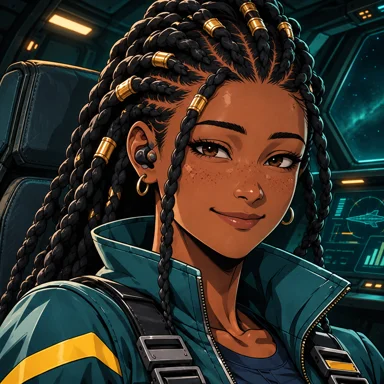
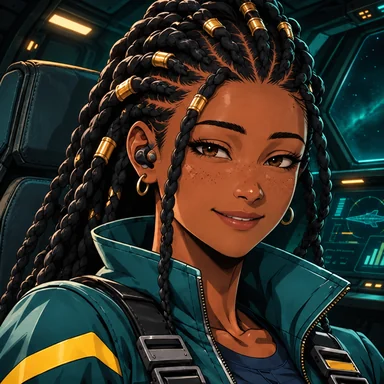
Add upright Orison gear, patrol every deck, and refine the rescue cast art

diff --git a/game.js b/game.js
@@ -855,7 +855,7 @@ function reservoir(ctx,w,h) {
     ctx.fillRect(x,h*.47+4,2,16);
   }
 }
-const shipFallback = {deckCargo:'cargo',anchorWinch:'lift',shipVent:'conveyor',lifeboat:'jack',shipCrane:'lift',ballastPump:'server',deckGantry:'lift',cargoLift:'lift',davitRail:'conveyor',deckReels:'cargo',deckGenerator:'server',sensorPod:'cargo'};
+const shipFallback = {deckCargo:'cargo',anchorWinch:'lift',shipVent:'conveyor',lifeboat:'jack',shipCrane:'lift',ballastPump:'server',deckGantry:'lift',cargoLift:'lift',davitRail:'conveyor',deckReels:'cargo',deckGenerator:'server',sensorPod:'cargo',shipExhaust:'conveyor',gangway:'lift',steelHatches:'cargo',bollardBank:'server',fireMain:'conveyor',radarMast:'server'};
 const equipmentArt = {
   cargo: ['cargo', 'pallet', 'jack'],
   hangar: ['conveyor', 'lift'],
@@ -904,13 +904,16 @@ const shipSprites = {"deckCargo":[5,23,210,103],"anchorWinch":[225,28,210,94],"s
 const shipMachineryAtlas = new Image();
 shipMachineryAtlas.src = 'assets/orison-machinery.webp';
 const shipMachinerySprites = {"deckGantry":[5,32,210,85],"cargoLift":[242,4,176,141],"davitRail":[445,44,210,62],"deckReels":[5,168,210,113],"deckGenerator":[230,154,200,141],"sensorPod":[445,154,209,141]};
+const verticalShipAtlas = new Image();
+verticalShipAtlas.src = 'assets/orison-vertical.webp';
+const verticalShipSprites = {"shipExhaust":[33,4,73,202],"gangway":[169,4,81,202],"steelHatches":[319,4,61,202],"bollardBank":[41,214,58,202],"fireMain":[167,214,85,202],"radarMast":[297,214,106,202]};
 const horizontalHandling = type => type === 'forklift' || type === 'jack';
 function drawEquipmentSprite(ctx,w,h,type) {
-  const rect = shipMachinerySprites[type] || shipSprites[type] || workcellSprites[type] || factorySprites[type] || equipmentSprites[type];
-  const image = shipMachinerySprites[type] ? shipMachineryAtlas : shipSprites[type] ? shipAtlas : workcellSprites[type] ? workcellAtlas : factorySprites[type] ? factoryAtlas : equipmentAtlas;
+  const rect = verticalShipSprites[type] || shipMachinerySprites[type] || shipSprites[type] || workcellSprites[type] || factorySprites[type] || equipmentSprites[type];
+  const image = verticalShipSprites[type] ? verticalShipAtlas : shipMachinerySprites[type] ? shipMachineryAtlas : shipSprites[type] ? shipAtlas : workcellSprites[type] ? workcellAtlas : factorySprites[type] ? factoryAtlas : equipmentAtlas;
   if (!rect || !image.complete || !image.naturalWidth) return false;
   ctx.save();
-  const rotate = !horizontalHandling(type) && !['press','switchgear','turntable','shipCrane','deckGantry','cargoLift','davitRail'].includes(type) && h > w*1.25 && rect[2] > rect[3]*1.48;
+  const rotate = !verticalShipSprites[type] && !horizontalHandling(type) && !['press','switchgear','turntable','shipCrane','deckGantry','cargoLift','davitRail'].includes(type) && h > w*1.25 && rect[2] > rect[3]*1.48;
   if (rotate) {
     ctx.translate(w,0);
     ctx.rotate(Math.PI/2);
@@ -918,7 +921,7 @@ function drawEquipmentSprite(ctx,w,h,type) {
   }
   const aspect = rect[2]/rect[3];
   const columns = Math.max(1,Math.round(w/(h*aspect)));
-  const rows = horizontalHandling(type) ? 1 : Math.max(1,Math.round(h/(w/aspect)));
+  const rows = horizontalHandling(type) || orisonVerticalGear.includes(type) ? 1 : Math.max(1,Math.round(h/(w/aspect)));
   const width = w/columns;
   const height = h/rows;
   const gap = Math.min(width,height)*.025;
@@ -1711,7 +1714,7 @@ resumeCampaign();
 quayAtlas.addEventListener('load',renderLoadout);
 storyAtlas.addEventListener('load',renderLoadout);
 fleetArt.addEventListener('load',renderLoadout);
-for (const artwork of [equipmentAtlas,factoryAtlas,workcellAtlas,shipAtlas,shipMachineryAtlas]) {
+for (const artwork of [equipmentAtlas,factoryAtlas,workcellAtlas,shipAtlas,shipMachineryAtlas,verticalShipAtlas]) {
   artwork.addEventListener('load',() => {terrain = paintTerrain();});
 }
 atlas.addEventListener('load',() => {

diff --git a/story.js b/story.js
@@ -142,10 +142,10 @@ const carrierFinale = {
   sea:true,sentinels:2,
   gates:[[180,339],[344,135],[491,345],[634,153],[777,345],[879,217]],
   walls:[
-    [109,65,129,52,'deckGantry'],[231,117,62,193,'deckCargo'],
-    [305,392,125,55,'cargoLift'],[397,194,61,246,'shipVent'],
-    [490,53,136,49,'shipCrane'],[540,55,63,255,'sensorPod'],
-    [684,244,60,197,'deckGenerator'],[722,71,128,50,'davitRail'],
+    [109,65,129,52,'deckGantry'],[231,117,62,193,'shipExhaust'],
+    [305,392,125,55,'cargoLift'],[397,194,61,246,'steelHatches'],
+    [490,53,136,49,'shipCrane'],[540,55,63,255,'fireMain'],
+    [684,244,60,197,'radarMast'],[722,71,128,50,'davitRail'],
     [812,281,68,105,'deckReels'],[822,407,103,39,'lifeboat']
   ],
   cameras:[[303,186,-.9,'red'],[518,258,1.15,'red'],[710,220,1.55,'red']],
@@ -169,15 +169,19 @@ const orisonDeckGear = [
   'deckCargo','deckGantry','shipVent','cargoLift','lifeboat','deckReels',
   'anchorWinch','davitRail','deckGenerator','sensorPod','shipCrane','ballastPump'
 ];
+const orisonVerticalGear = ['shipExhaust','gangway','steelHatches','bollardBank','fireMain','radarMast'];
 const orisonMissions = orisonPlans.map((plan,index) => {
   const gates = [];
   const walls = [];
   const cameras = [];
   const columns = plan.lanes.length === 3 ? [218,460,710] : [183,376,568,759];
-  const gap = index < 3 ? 86 : index < 9 ? 74 : 64;
+  const gap = index < 3 ? 76 : index < 9 ? 68 : 61;
   const horizontalGear = ['deckGantry','cargoLift','shipCrane','davitRail'];
-  function deckObstacle(x,top,width,height,type,upper) {
-    if (!horizontalGear.includes(type)) return [x-width/2,top,width,height,type];
+  function deckObstacle(x,top,width,height,type,upper,lane) {
+    if (!horizontalGear.includes(type)) {
+      const variant = orisonVerticalGear[(index+lane*2+(upper ? 0 : 1))%orisonVerticalGear.length];
+      return [x-width/2,top,width,height,height >= width*1.25 ? variant : type];
+    }
     const wide = width+40;
     const shallow = Math.min(56,height);
     return [x-wide/2,upper ? top+height-shallow : top,wide,shallow,type];
@@ -188,22 +192,22 @@ const orisonMissions = orisonPlans.map((plan,index) => {
     const north = orisonDeckGear[(index+lane*2)%orisonDeckGear.length];
     const south = orisonDeckGear[(index+lane*2+3)%orisonDeckGear.length];
     gates.push([x,y]);
-    walls.push(deckObstacle(x,46,width,y-gap-46,north,true),deckObstacle(x,y+gap,width,454-y-gap,south,false));
-    if (lane < plan.cameras) {
+    walls.push(deckObstacle(x,46,width,y-gap-46,north,true,lane),deckObstacle(x,y+gap,width,454-y-gap,south,false,lane));
+    if (lane < Math.max(1,plan.cameras)) {
       const offset = lane%2 ? -1 : 1;
-      cameras.push([x+54,y+offset*(gap-16),offset*-1.3,index<2 ? 'green' : 'red']);
+      cameras.push([x+54,y+offset*(gap-16),offset*-1.3,index === 1 ? 'green' : 'red']);
     }
   }
   if (index >= 5) {
     const y = index%2 ? 350 : 105;
     const x = (columns[1]+columns[2])/2;
-    walls.push([x-50,y-21,100,42,index%2 ? 'deckReels' : 'deckGenerator']);
+    walls.push([x-50,y-21,100,42,index === 8 ? 'sensorPod' : index%2 ? 'deckReels' : 'deckGenerator']);
   }
   const exitY = Math.round((plan.lanes.at(-1)+250)/2);
   gates.push([872,exitY]);
   return {
-    name:plan.name,seconds:plan.seconds-(index < 3 ? 14 : 17),start:[76,plan.lanes[0]],exit:[exitY,index < 9 ? 168 : 152],
-    wind:plan.wind+19+index*2,sea:true,gates,walls,cameras,
+    name:plan.name,seconds:plan.seconds-(index < 3 ? 18 : 20),start:[76,plan.lanes[0]],exit:[exitY,index < 9 ? 168 : 152],
+    wind:plan.wind+31+index*2,sea:true,sentinels:index>=8 && index%2 === 0 ? 2 : 1,gates,walls,cameras,
     intro:'Verify the rescue markers in order, then fly through the bow opening.'
   };
 });
